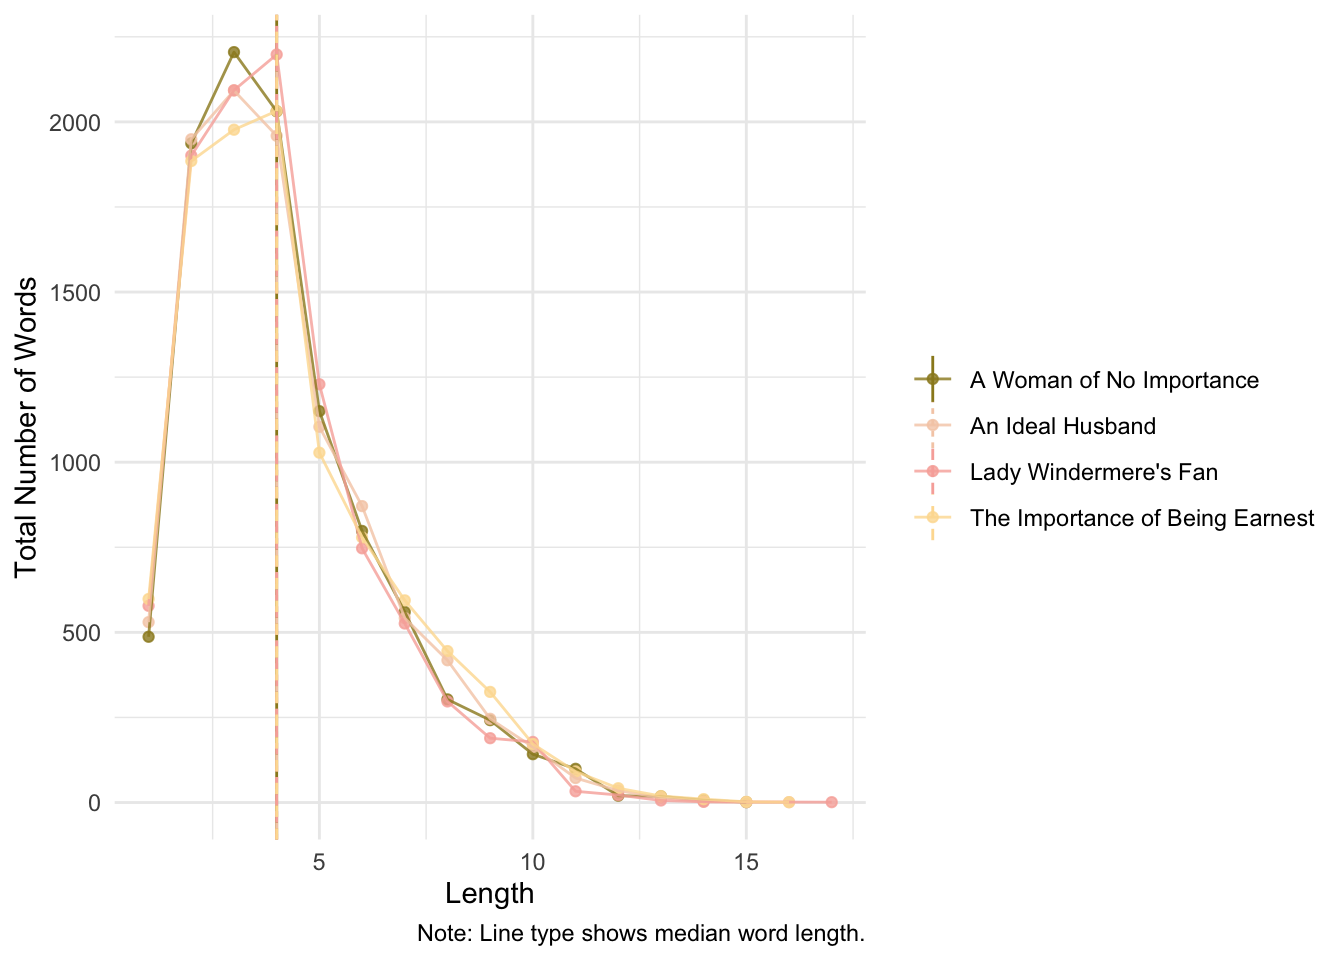
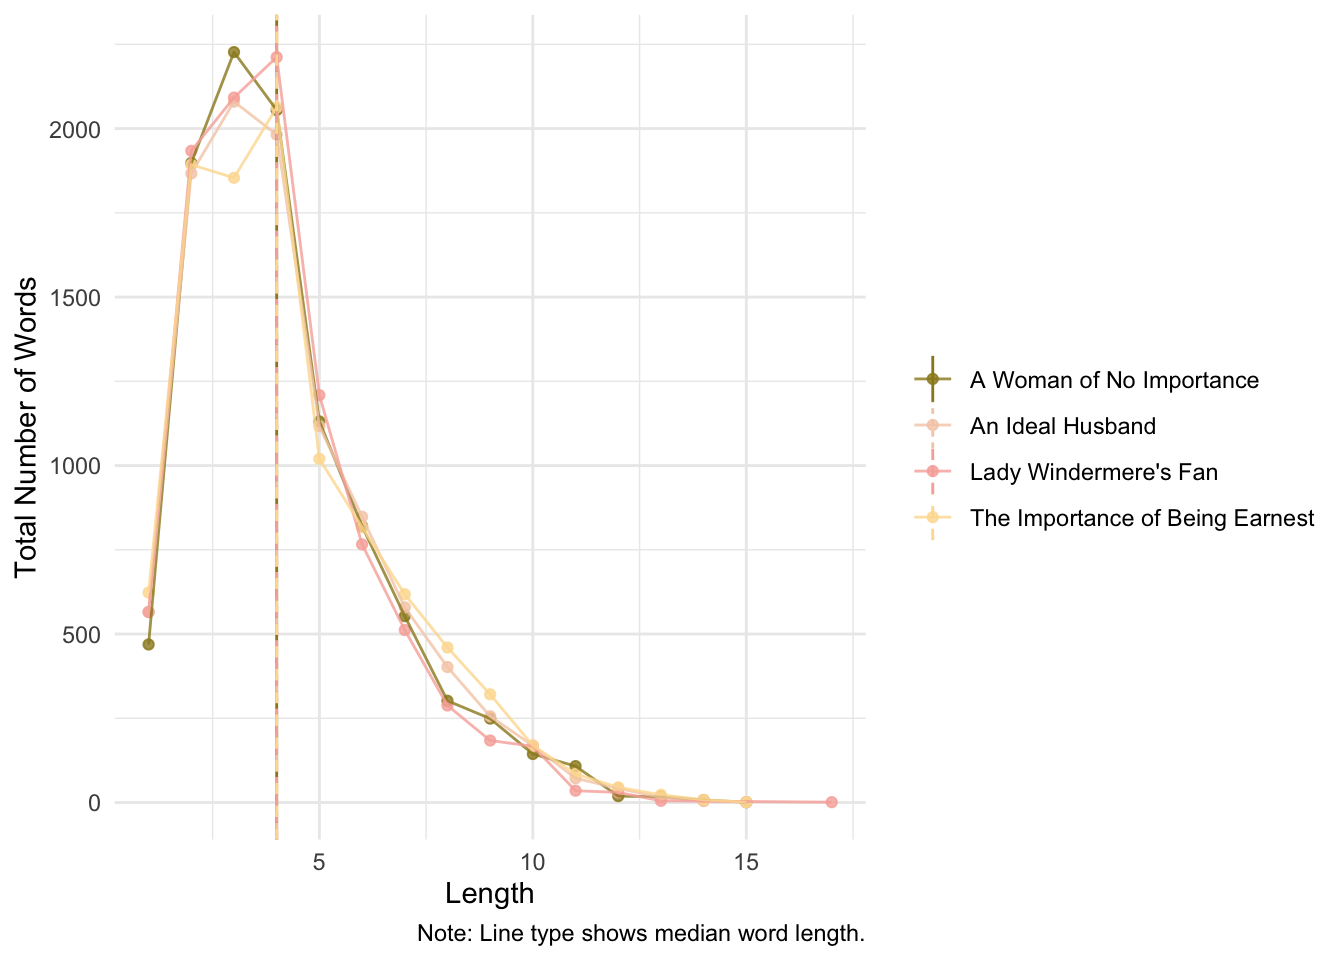
build book

diff --git a/docs/week-1-a-primer-on-using-text-as-data.html b/docs/week-1-a-primer-on-using-text-as-data.html
@@ -4,16 +4,16 @@
 <meta http-equiv="Content-Type" content="text/html; charset=UTF-8">
 <meta charset="utf-8">
 <meta name="viewport" content="width=device-width, initial-scale=1, shrink-to-fit=no">
-<title>Chapter 2 Week 1: A Primer on Using Text as Data | PS9594A: Computational Text Analysis</title>
+<title>Chapter 1 Week 1: A Primer on Using Text as Data | PS9594A: Computational Text Analysis</title>
 <meta name="author" content="Dr. Sebastián Vallejo Vera | Western University">
-<meta name="description" content="Slides 1 Introduction to CTA (link or in Perusall) 2 Why Computational Text Analysis (link or in Perusall)  2.1 Setup For this first example, we will replicate (and extend) Mendenhall’s (1887) and...">
+<meta name="description" content="Slides 1 Introduction to CTA (link or in Perusall) 2 Why Computational Text Analysis (link or in Perusall)  1.1 Setup For this first example, we will replicate (and extend) Mendenhall’s (1887) and...">
 <meta name="generator" content="bookdown 0.37 with bs4_book()">
-<meta property="og:title" content="Chapter 2 Week 1: A Primer on Using Text as Data | PS9594A: Computational Text Analysis">
+<meta property="og:title" content="Chapter 1 Week 1: A Primer on Using Text as Data | PS9594A: Computational Text Analysis">
 <meta property="og:type" content="book">
-<meta property="og:description" content="Slides 1 Introduction to CTA (link or in Perusall) 2 Why Computational Text Analysis (link or in Perusall)  2.1 Setup For this first example, we will replicate (and extend) Mendenhall’s (1887) and...">
+<meta property="og:description" content="Slides 1 Introduction to CTA (link or in Perusall) 2 Why Computational Text Analysis (link or in Perusall)  1.1 Setup For this first example, we will replicate (and extend) Mendenhall’s (1887) and...">
 <meta name="twitter:card" content="summary">
-<meta name="twitter:title" content="Chapter 2 Week 1: A Primer on Using Text as Data | PS9594A: Computational Text Analysis">
-<meta name="twitter:description" content="Slides 1 Introduction to CTA (link or in Perusall) 2 Why Computational Text Analysis (link or in Perusall)  2.1 Setup For this first example, we will replicate (and extend) Mendenhall’s (1887) and...">
+<meta name="twitter:title" content="Chapter 1 Week 1: A Primer on Using Text as Data | PS9594A: Computational Text Analysis">
+<meta name="twitter:description" content="Slides 1 Introduction to CTA (link or in Perusall) 2 Why Computational Text Analysis (link or in Perusall)  1.1 Setup For this first example, we will replicate (and extend) Mendenhall’s (1887) and...">
 <!-- JS --><script src="https://cdnjs.cloudflare.com/ajax/libs/clipboard.js/2.0.6/clipboard.min.js" integrity="sha256-inc5kl9MA1hkeYUt+EC3BhlIgyp/2jDIyBLS6k3UxPI=" crossorigin="anonymous"></script><script src="https://cdnjs.cloudflare.com/ajax/libs/fuse.js/6.4.6/fuse.js" integrity="sha512-zv6Ywkjyktsohkbp9bb45V6tEMoWhzFzXis+LrMehmJZZSys19Yxf1dopHx7WzIKxr5tK2dVcYmaCk2uqdjF4A==" crossorigin="anonymous"></script><script src="https://kit.fontawesome.com/6ecbd6c532.js" crossorigin="anonymous"></script><script src="libs/jquery-3.6.0/jquery-3.6.0.min.js"></script><meta name="viewport" content="width=device-width, initial-scale=1, shrink-to-fit=no">
 <link href="libs/bootstrap-4.6.0/bootstrap.min.css" rel="stylesheet">
 <script src="libs/bootstrap-4.6.0/bootstrap.bundle.min.js"></script><script src="libs/bs3compat-0.5.1/transition.js"></script><script src="libs/bs3compat-0.5.1/tabs.js"></script><script src="libs/bs3compat-0.5.1/bs3compat.js"></script><link href="libs/bs4_book-1.0.0/bs4_book.css" rel="stylesheet">
@@ -63,16 +63,25 @@
 </form>
 
       <nav aria-label="Table of contents"><h2>Table of contents</h2>
-        <ul class="book-toc list-unstyled"><li><a class="" href="index.html"><span class="header-section-number">Chapter 2</span> Week 1: A Primer on Using Text as Data</a></li></ul>
+        <ul class="book-toc list-unstyled">
+<li><a class="" href="index.html">“Computational Text Analysis”</a></li>
+<li><a class="active" href="week-1-a-primer-on-using-text-as-data.html"><span class="header-section-number">1</span> Week 1: A Primer on Using Text as Data</a></li>
+<li><a class="" href="cross.html"><span class="header-section-number">2</span> Cross-references</a></li>
+<li><a class="" href="parts.html"><span class="header-section-number">3</span> Parts</a></li>
+<li><a class="" href="footnotes-and-citations.html"><span class="header-section-number">4</span> Footnotes and citations</a></li>
+<li><a class="" href="blocks.html"><span class="header-section-number">5</span> Blocks</a></li>
+<li><a class="" href="sharing-your-book.html"><span class="header-section-number">6</span> Sharing your book</a></li>
+<li><a class="" href="references.html">References</a></li>
+</ul>
 
         <div class="book-extra">
           <p><a id="book-repo" href="https://github.com/svallejovera/cpa_uwo">View book source <i class="fab fa-github"></i></a></p>
         </div>
       </nav>
 </div>
-  </header><main class="col-sm-12 col-md-9 col-lg-7" id="content"><div id="week-1-a-primer-on-using-text-as-data" class="section level1" number="2">
+  </header><main class="col-sm-12 col-md-9 col-lg-7" id="content"><div id="week-1-a-primer-on-using-text-as-data" class="section level1" number="1">
 <h1>
-<span class="header-section-number">2</span> Week 1: A Primer on Using Text as Data<a class="anchor" aria-label="anchor" href="#week-1-a-primer-on-using-text-as-data"><i class="fas fa-link"></i></a>
+<span class="header-section-number">1</span> Week 1: A Primer on Using Text as Data<a class="anchor" aria-label="anchor" href="#week-1-a-primer-on-using-text-as-data"><i class="fas fa-link"></i></a>
 </h1>
 <div id="slides" class="section level2 unnumbered">
 <h2>Slides<a class="anchor" aria-label="anchor" href="#slides"><i class="fas fa-link"></i></a>
@@ -82,9 +91,9 @@
 <li>2 Why Computational Text Analysis (<a href="https://github.com/svallejovera/cpa_uwo/blob/main/slides/2%20Why%20Computational%20Text%20Analysis.pptx">link</a> or in Perusall)</li>
 </ul>
 </div>
-<div id="setup" class="section level2" number="2.1">
+<div id="setup" class="section level2" number="1.1">
 <h2>
-<span class="header-section-number">2.1</span> Setup<a class="anchor" aria-label="anchor" href="#setup"><i class="fas fa-link"></i></a>
+<span class="header-section-number">1.1</span> Setup<a class="anchor" aria-label="anchor" href="#setup"><i class="fas fa-link"></i></a>
 </h2>
 <p>For this first example, we will replicate (and extend) Mendenhall’s (1887) and Mendenhall’s (1901) studies of word-length distribution.</p>
 <p>First we load the packages that we’ll be using:</p>
@@ -96,12 +105,12 @@
 <span><span class="kw"><a href="https://rdrr.io/r/base/library.html">library</a></span><span class="op">(</span><span class="va"><a href="https://docs.ropensci.org/gutenbergr/">gutenbergr</a></span><span class="op">)</span> <span class="co"># to get some books</span></span>
 <span><span class="kw"><a href="https://rdrr.io/r/base/library.html">library</a></span><span class="op">(</span><span class="va"><a href="http://haozhu233.github.io/kableExtra/">kableExtra</a></span><span class="op">)</span> <span class="co"># for displaying data in html format (relevant for formatting this worksheet mainly)</span></span></code></pre></div>
 </div>
-<div id="get-data" class="section level2" number="2.2">
+<div id="get-data" class="section level2" number="1.2">
 <h2>
-<span class="header-section-number">2.2</span> Get Data<a class="anchor" aria-label="anchor" href="#get-data"><i class="fas fa-link"></i></a>
+<span class="header-section-number">1.2</span> Get Data<a class="anchor" aria-label="anchor" href="#get-data"><i class="fas fa-link"></i></a>
 </h2>
 <p>Mendenhall (1887) argued that “every writer makes use of a vocabulary which is peculiar to himself, and the character of which does not materially change from year to
-year during his productive,” and that one of these characteristics was the length of words. Mendenhall (1901) takes this further, and suggests that, given this assumption, Shakespeare and Bacon were <em>not</em> the same person<a class="footnote-ref" tabindex="0" data-toggle="popover" data-content="&lt;p&gt;These studies were published in Science and Popular Science Monthly!&lt;/p&gt;"><sup>1</sup></a>.</p>
+year during his productive,” and that one of these characteristics was the length of words. Mendenhall (1901) takes this further, and suggests that, given this assumption, Shakespeare and Bacon were <em>not</em> the same person<a class="footnote-ref" tabindex="0" data-toggle="popover" data-content="&lt;p&gt;These studies were published in Science and Popular Science Monthly!&lt;/p&gt;"><sup>2</sup></a>.</p>
 <p>Let’s get a corpus–a collection of documents–that we can analyze. We can search the Gutenberg repository and create a corpus with some selected work.</p>
 <div class="sourceCode" id="cb2"><pre class="downlit sourceCode r">
 <code class="sourceCode R"><span><span class="va">gutenberg_metadata</span> <span class="op"><a href="https://magrittr.tidyverse.org/reference/pipe.html">%&gt;%</a></span></span>
@@ -122,9 +131,9 @@ year during his productive,” and that one of these characteristics was the len
 ## # ℹ 56 more rows
 ## # ℹ 2 more variables: rights &lt;chr&gt;, has_text &lt;lgl&gt;</code></pre>
 </div>
-<div id="word-length-in-wildes-corpus" class="section level2" number="2.3">
+<div id="word-length-in-wildes-corpus" class="section level2" number="1.3">
 <h2>
-<span class="header-section-number">2.3</span> Word Length in Wilde’s Corpus<a class="anchor" aria-label="anchor" href="#word-length-in-wildes-corpus"><i class="fas fa-link"></i></a>
+<span class="header-section-number">1.3</span> Word Length in Wilde’s Corpus<a class="anchor" aria-label="anchor" href="#word-length-in-wildes-corpus"><i class="fas fa-link"></i></a>
 </h2>
 <p>That’s a lot of Wilde! Let’s focus on four plays: “The Importance of Being Earnest”, “A Woman of No Importance”, “Lady Windermere’s Fan”, and “An Ideal Husband”. We can download all of these plays using their ID number:</p>
 <div class="sourceCode" id="cb4"><pre class="downlit sourceCode r">
@@ -275,18 +284,18 @@ year during his productive,” and that one of these characteristics was the len
 <span>       caption <span class="op">=</span> <span class="st">"Note: Line type shows median word length."</span><span class="op">)</span></span></code></pre></div>
 <pre><code>## group_by: one grouping variable (title)</code></pre>
 <pre><code>## slice_sample (grouped): removed 20,465 rows (34%), 40,000 rows remaining</code></pre>
-<pre><code>## mutate (grouped): new variable 'word_length' (integer) with 17 unique values and 0% NA</code></pre>
+<pre><code>## mutate (grouped): new variable 'word_length' (integer) with 16 unique values and 0% NA</code></pre>
 <pre><code>##                   new variable 'median_word_length' (double) with one unique value and 0% NA</code></pre>
 <pre><code>## group_by: 2 grouping variables (word_length, title)</code></pre>
-<pre><code>## mutate (grouped): new variable 'total_word_length' (integer) with 57 unique values and 0% NA</code></pre>
-<pre><code>## distinct (grouped): removed 39,938 rows (&gt;99%), 62 rows remaining</code></pre>
+<pre><code>## mutate (grouped): new variable 'total_word_length' (integer) with 55 unique values and 0% NA</code></pre>
+<pre><code>## distinct (grouped): removed 39,941 rows (&gt;99%), 59 rows remaining</code></pre>
 <pre><code>## select: dropped 2 variables (gutenberg_id, word)</code></pre>
 <div class="inline-figure"><img src="main_files/figure-html/unnamed-chunk-8-1.png" width="672"></div>
 <p>Would you look at that. Mendenhall was into something: an author has a mark in terms of word length distribution. For Wilde, there is no observable change across time (each play was published in different years). But, what happens when we compare Wilde’s mark with Shakespeare’s? Let’s choose four plays (at random) by Shakespeare: A Midsummer Night’s Dream, The Merchant of Venice, Much Ado about Nothing, and The Tempest.</p>
 </div>
-<div id="comparing-shakespeare-and-wilde" class="section level2" number="2.4">
+<div id="comparing-shakespeare-and-wilde" class="section level2" number="1.4">
 <h2>
-<span class="header-section-number">2.4</span> Comparing Shakespeare and Wilde<a class="anchor" aria-label="anchor" href="#comparing-shakespeare-and-wilde"><i class="fas fa-link"></i></a>
+<span class="header-section-number">1.4</span> Comparing Shakespeare and Wilde<a class="anchor" aria-label="anchor" href="#comparing-shakespeare-and-wilde"><i class="fas fa-link"></i></a>
 </h2>
 <div class="sourceCode" id="cb32"><pre class="downlit sourceCode r">
 <code class="sourceCode R"><span><span class="va">shakes</span> <span class="op">&lt;-</span> <span class="fu"><a href="https://docs.ropensci.org/gutenbergr/reference/gutenberg_download.html">gutenberg_download</a></span><span class="op">(</span><span class="fu"><a href="https://rdrr.io/r/base/c.html">c</a></span><span class="op">(</span><span class="fl">1520</span>,<span class="fl">2242</span>,<span class="fl">2243</span>,<span class="fl">2235</span><span class="op">)</span>,</span>
@@ -366,9 +375,9 @@ year during his productive,” and that one of these characteristics was the len
 <div class="inline-figure"><img src="main_files/figure-html/unnamed-chunk-10-1.png" width="672"></div>
 <p>Are there any differences? What can we conclude from the evidence? What are the limitations of this approach? Are there alternative approaches to study what Mendenhall was getting at?</p>
 </div>
-<div id="exercise-optional" class="section level2" number="2.5">
+<div id="exercise-optional" class="section level2" number="1.5">
 <h2>
-<span class="header-section-number">2.5</span> Exercise (Optional)<a class="anchor" aria-label="anchor" href="#exercise-optional"><i class="fas fa-link"></i></a>
+<span class="header-section-number">1.5</span> Exercise (Optional)<a class="anchor" aria-label="anchor" href="#exercise-optional"><i class="fas fa-link"></i></a>
 </h2>
 <ol style="list-style-type: decimal">
 <li>Extend the current analysis to other authors or to more works from the same author.</li>
@@ -378,15 +387,24 @@ year during his productive,” and that one of these characteristics was the len
 </div>
 
   <div class="chapter-nav">
-<div class="empty"></div>
-<div class="empty"></div>
+<div class="prev"><a href="index.html">“Computational Text Analysis”</a></div>
+<div class="next"><a href="cross.html"><span class="header-section-number">2</span> Cross-references</a></div>
 </div></main><div class="col-md-3 col-lg-2 d-none d-md-block sidebar sidebar-chapter">
     <nav id="toc" data-toggle="toc" aria-label="On this page"><h2>On this page</h2>
-      <div id="book-on-this-page"></div>
+      <ul class="nav navbar-nav">
+<li><a class="nav-link" href="#week-1-a-primer-on-using-text-as-data"><span class="header-section-number">1</span> Week 1: A Primer on Using Text as Data</a></li>
+<li><a class="nav-link" href="#slides">Slides</a></li>
+<li><a class="nav-link" href="#setup"><span class="header-section-number">1.1</span> Setup</a></li>
+<li><a class="nav-link" href="#get-data"><span class="header-section-number">1.2</span> Get Data</a></li>
+<li><a class="nav-link" href="#word-length-in-wildes-corpus"><span class="header-section-number">1.3</span> Word Length in Wilde’s Corpus</a></li>
+<li><a class="nav-link" href="#comparing-shakespeare-and-wilde"><span class="header-section-number">1.4</span> Comparing Shakespeare and Wilde</a></li>
+<li><a class="nav-link" href="#exercise-optional"><span class="header-section-number">1.5</span> Exercise (Optional)</a></li>
+</ul>
 
       <div class="book-extra">
         <ul class="list-unstyled">
-          
+<li><a id="book-source" href="https://github.com/svallejovera/cpa_uwo/blob/master/01-week1.Rmd">View source <i class="fab fa-github"></i></a></li>
+          <li><a id="book-edit" href="https://github.com/svallejovera/cpa_uwo/edit/master/01-week1.Rmd">Edit this page <i class="fab fa-github"></i></a></li>
         </ul>
 </div>
     </nav>
@@ -406,6 +424,34 @@ year during his productive,” and that one of these characteristics was the len
   </div>
 
 </div></div>
-</footer>
+</footer><!-- dynamically load mathjax for compatibility with self-contained --><script>
+  (function () {
+    var script = document.createElement("script");
+    script.type = "text/javascript";
+    var src = "true";
+    if (src === "" || src === "true") src = "https://cdnjs.cloudflare.com/ajax/libs/mathjax/2.7.9/latest.js?config=TeX-MML-AM_CHTML";
+    if (location.protocol !== "file:")
+      if (/^https?:/.test(src))
+        src = src.replace(/^https?:/, '');
+    script.src = src;
+    document.getElementsByTagName("head")[0].appendChild(script);
+  })();
+</script><script type="text/x-mathjax-config">const popovers = document.querySelectorAll('a.footnote-ref[data-toggle="popover"]');
+for (let popover of popovers) {
+  const div = document.createElement('div');
+  div.setAttribute('style', 'position: absolute; top: 0, left:0; width:0, height:0, overflow: hidden; visibility: hidden;');
+  div.innerHTML = popover.getAttribute('data-content');
+
+  var has_math = div.querySelector("span.math");
+  if (has_math) {
+    document.body.appendChild(div);
+    MathJax.Hub.Queue(["Typeset", MathJax.Hub, div]);
+    MathJax.Hub.Queue(function() {
+      popover.setAttribute('data-content', div.innerHTML);
+      document.body.removeChild(div);
+    })
+  }
+}
+</script>
 </body>
 </html>

diff --git a/docs/index.html b/docs/index.html
@@ -89,7 +89,7 @@
 <h2>
 <span class="header-section-number">0.1</span> Software and Packages<a class="anchor" aria-label="anchor" href="#software-and-packages"><i class="fas fa-link"></i></a>
 </h2>
-<p>For the first part of this course (Weeks 1 - 5), we will be mainly using R. For the second part of the this course (Weeks 6 - 11), we will use a combination of R and Python. I will assume that you are familiar with R language, RStudio, and R packages. If you are not, please come to office hours and I can help you out<a class="footnote-ref" tabindex="0" data-toggle="popover" data-content="&lt;p&gt;It might even be faster to get one of your classmates or colleagues to help you out.&lt;/p&gt;"><sup>1</sup></a>. In R the main packages, we you will need to have the following packages installed:</p>
+<p>For the first part of this course (Weeks 1 - 5), we will be mainly using R. For the second part of the this course (Weeks 6 - 11), we will use a combination of R and Python. I will assume that you are familiar with R language, RStudio, and R packages. If you are not, please come to office hours and I can help you out<a class="footnote-ref" tabindex="0" data-toggle="popover" data-content="&lt;p&gt;It might even be faster to get one of your classmates or colleagues to help you out.&lt;/p&gt;"><sup>1</sup></a>. In R, these are the main packages you will need to have installed:</p>
 <ul>
 <li>tidyverse (we will be piping)</li>
 <li>tidylog (helps keep track of what your are pipins)</li>
@@ -146,7 +146,7 @@
 <footer class="bg-primary text-light mt-5"><div class="container"><div class="row">
 
   <div class="col-12 col-md-6 mt-3">
-    <p>"<strong>PS9594A: Computational Text Analysis</strong>" was written by Dr. Sebastián Vallejo Vera | Western University. It was last built on 2023-12-21.</p>
+    <p>"<strong>PS9594A: Computational Text Analysis</strong>" was written by Dr. Sebastián Vallejo Vera | Western University. It was last built on 2023-12-22.</p>
   </div>
 
   <div class="col-12 col-md-6 mt-3">

diff --git a/docs/blocks.html b/docs/blocks.html
@@ -141,7 +141,7 @@ and <span class="math inline">\(a\)</span> and <span class="math inline">\(b\)</
 <footer class="bg-primary text-light mt-5"><div class="container"><div class="row">
 
   <div class="col-12 col-md-6 mt-3">
-    <p>"<strong>PS9594A: Computational Text Analysis</strong>" was written by Dr. Sebastián Vallejo Vera | Western University. It was last built on 2023-12-21.</p>
+    <p>"<strong>PS9594A: Computational Text Analysis</strong>" was written by Dr. Sebastián Vallejo Vera | Western University. It was last built on 2023-12-22.</p>
   </div>
 
   <div class="col-12 col-md-6 mt-3">

diff --git a/docs/footnotes-and-citations.html b/docs/footnotes-and-citations.html
@@ -127,7 +127,7 @@ Note that the <code>.bib</code> files need to be listed in the index.Rmd with th
 <footer class="bg-primary text-light mt-5"><div class="container"><div class="row">
 
   <div class="col-12 col-md-6 mt-3">
-    <p>"<strong>PS9594A: Computational Text Analysis</strong>" was written by Dr. Sebastián Vallejo Vera | Western University. It was last built on 2023-12-21.</p>
+    <p>"<strong>PS9594A: Computational Text Analysis</strong>" was written by Dr. Sebastián Vallejo Vera | Western University. It was last built on 2023-12-22.</p>
   </div>
 
   <div class="col-12 col-md-6 mt-3">

diff --git a/docs/references.html b/docs/references.html
@@ -122,7 +122,7 @@ Xie, Yihui. 2015. <em>Dynamic Documents with <span>R</span> and Knitr</em>. 2nd 
 <footer class="bg-primary text-light mt-5"><div class="container"><div class="row">
 
   <div class="col-12 col-md-6 mt-3">
-    <p>"<strong>PS9594A: Computational Text Analysis</strong>" was written by Dr. Sebastián Vallejo Vera | Western University. It was last built on 2023-12-21.</p>
+    <p>"<strong>PS9594A: Computational Text Analysis</strong>" was written by Dr. Sebastián Vallejo Vera | Western University. It was last built on 2023-12-22.</p>
   </div>
 
   <div class="col-12 col-md-6 mt-3">

diff --git a/docs/cross.html b/docs/cross.html
@@ -247,7 +247,7 @@ pressure
 <footer class="bg-primary text-light mt-5"><div class="container"><div class="row">
 
   <div class="col-12 col-md-6 mt-3">
-    <p>"<strong>PS9594A: Computational Text Analysis</strong>" was written by Dr. Sebastián Vallejo Vera | Western University. It was last built on 2023-12-21.</p>
+    <p>"<strong>PS9594A: Computational Text Analysis</strong>" was written by Dr. Sebastián Vallejo Vera | Western University. It was last built on 2023-12-22.</p>
   </div>
 
   <div class="col-12 col-md-6 mt-3">

diff --git a/docs/parts.html b/docs/parts.html
@@ -111,7 +111,7 @@
 <footer class="bg-primary text-light mt-5"><div class="container"><div class="row">
 
   <div class="col-12 col-md-6 mt-3">
-    <p>"<strong>PS9594A: Computational Text Analysis</strong>" was written by Dr. Sebastián Vallejo Vera | Western University. It was last built on 2023-12-21.</p>
+    <p>"<strong>PS9594A: Computational Text Analysis</strong>" was written by Dr. Sebastián Vallejo Vera | Western University. It was last built on 2023-12-22.</p>
   </div>
 
   <div class="col-12 col-md-6 mt-3">

diff --git a/docs/sharing-your-book.html b/docs/sharing-your-book.html
@@ -137,7 +137,7 @@
 <footer class="bg-primary text-light mt-5"><div class="container"><div class="row">
 
   <div class="col-12 col-md-6 mt-3">
-    <p>"<strong>PS9594A: Computational Text Analysis</strong>" was written by Dr. Sebastián Vallejo Vera | Western University. It was last built on 2023-12-21.</p>
+    <p>"<strong>PS9594A: Computational Text Analysis</strong>" was written by Dr. Sebastián Vallejo Vera | Western University. It was last built on 2023-12-22.</p>
   </div>
 
   <div class="col-12 col-md-6 mt-3">
